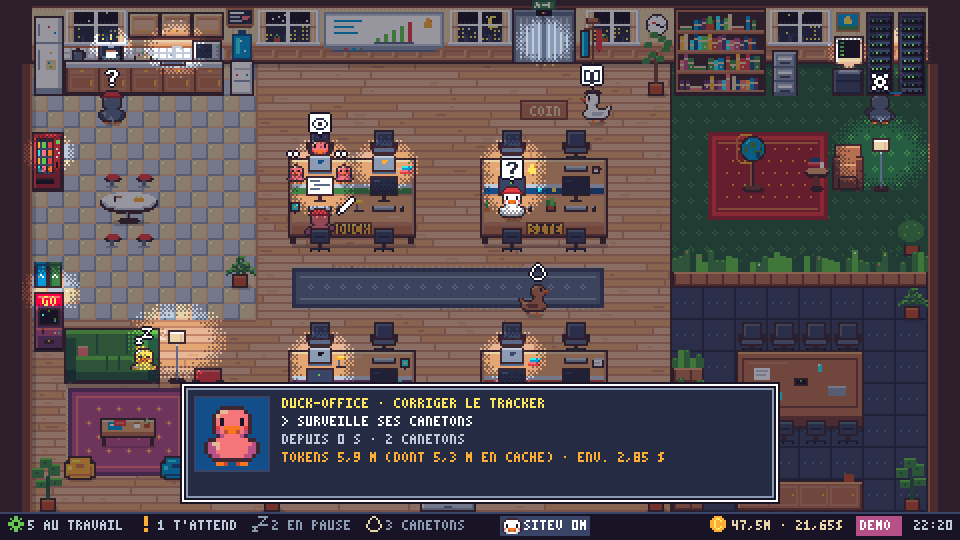
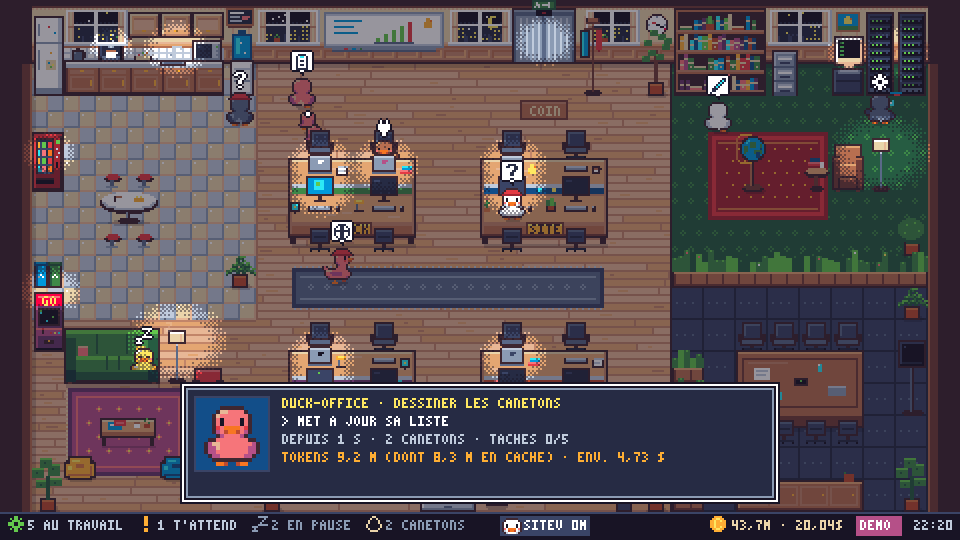
README : GIF et captures régénérés, rangée Halloween et Noël
- GIF : éclosion à la table de réunion, livraison de pizza, canetons en file
  indienne (555 Ko au lieu de 3 Mo)
- Captures nuit et éclosion refaites, nouvelles captures Halloween et Noël

diff --git a/README.md b/README.md
@@ -17,7 +17,7 @@
 
 <br />
 
-<img src="docs/demo.gif" width="100%" alt="L'open space de Duck Office : des canards travaillent à leurs bureaux, un canard attend sur son bureau, des œufs éclosent sur la table de réunion" />
+<img src="docs/demo.gif" width="100%" alt="L'open space de Duck Office : des canards travaillent à leurs bureaux, un canard attend sur son bureau, des œufs éclosent sur la table de réunion, un livreur apporte une pizza" />
 
 </div>
 
@@ -86,7 +86,15 @@ De temps en temps, toutes les 3 à 8 minutes, il se passe quelque chose. Il n'ar
   </tr>
   <tr>
     <td align="center"><sub>La nuit, et la fiche d'un canard façon vieux RPG</sub></td>
-    <td align="center"><sub>Une cane briefe ses canetons à la table de réunion</sub></td>
+    <td align="center"><sub>Une cane briefe ses canetons à la table de réunion, la pizza arrive</sub></td>
+  </tr>
+  <tr>
+    <td width="50%"><img src="docs/screenshots/halloween.png" alt="L'open space décoré pour Halloween, la nuit" /></td>
+    <td width="50%"><img src="docs/screenshots/noel.png" alt="L'open space décoré pour Noël, sous la neige" /></td>
+  </tr>
+  <tr>
+    <td align="center"><sub>Halloween : citrouilles, chauves-souris et lampes allumées</sub></td>
+    <td align="center"><sub>Noël : sapin, guirlandes et neige derrière les vitres</sub></td>
   </tr>
 </table>
 
